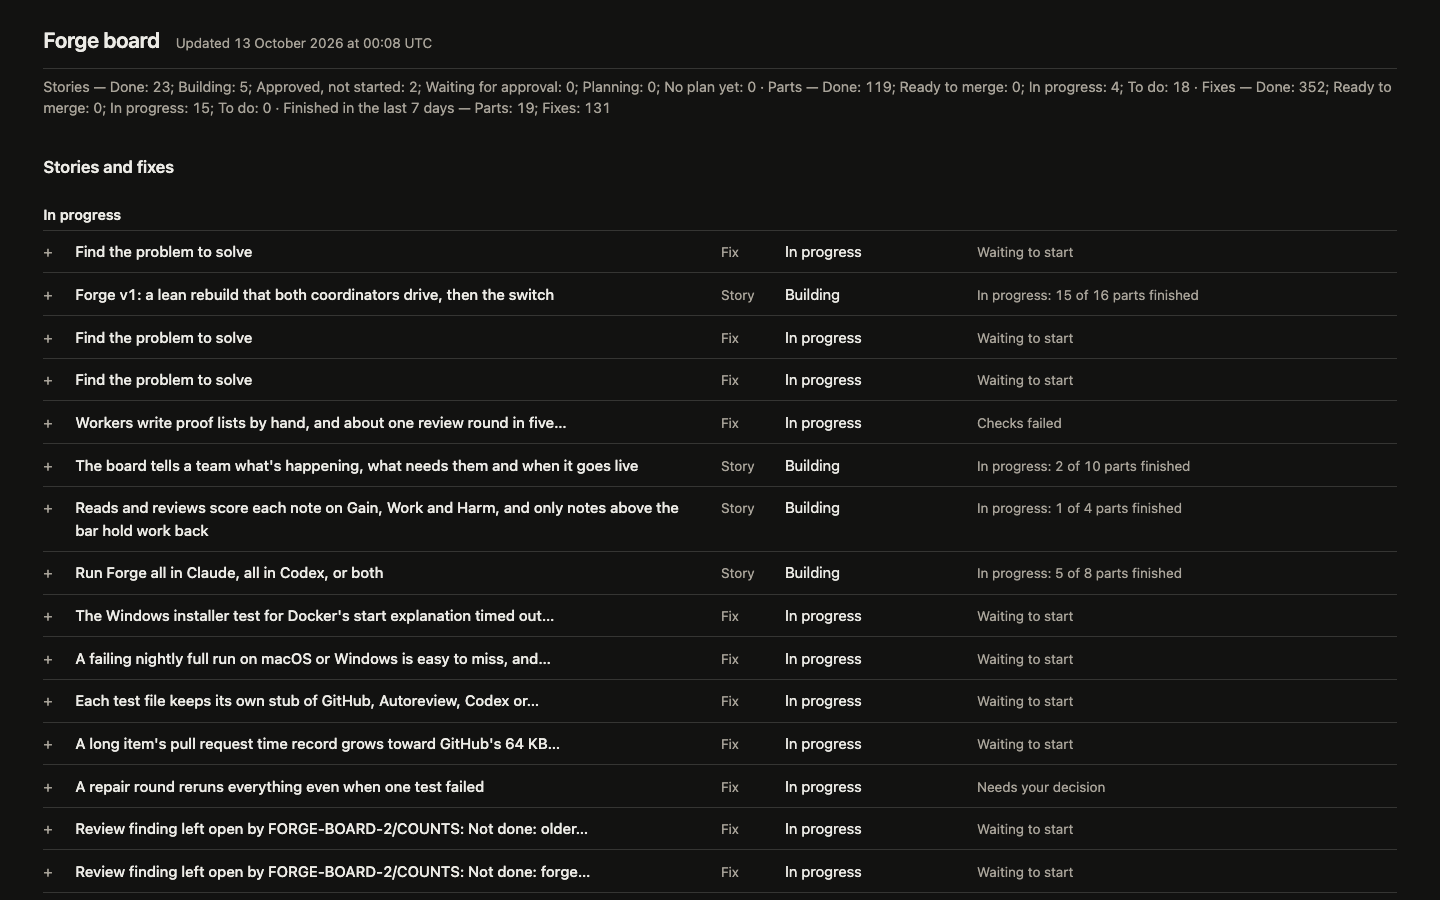
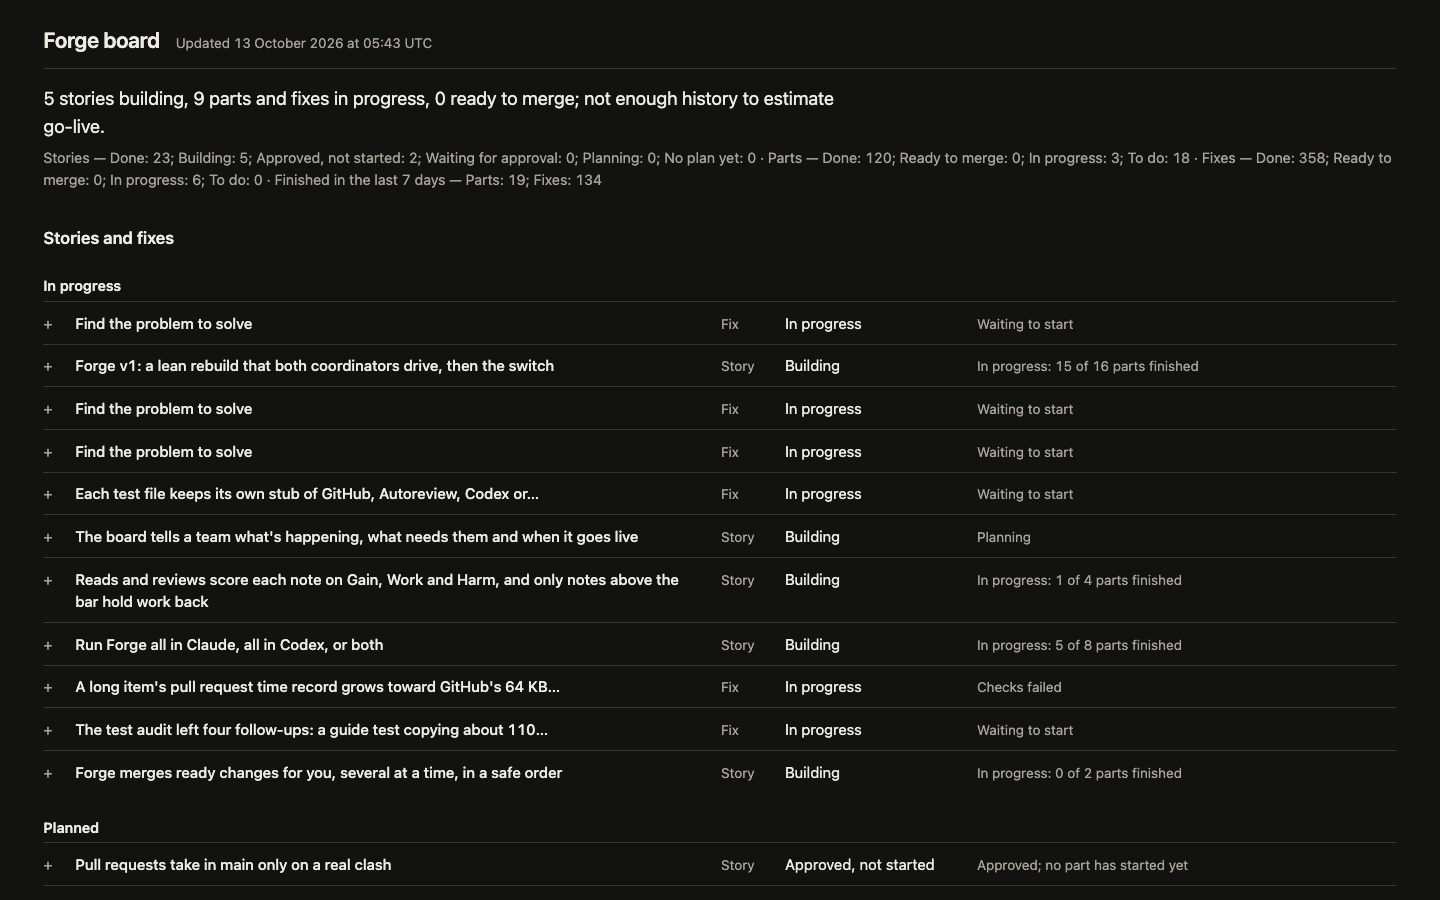
The board's map key fits on one line, and the page is proven on a client-sized board
The first review found the key wrapping across several lines, part rows not checked against
the JSON, no client-sized browser proof and no functional check. The key is now one short line
of small shapes and words that scrolls sideways in a narrow window. The test also compares
a part row's state and time split with the JSON. A generated client-sized repo (44 roadmap
stories, 120 parts, 10 open and 50 finished fixes, six weeks of merges) is the second browser
proof.

New client repos get the one-line key on their first forge board; existing client repos get it
when they move to this release and sync. Both histories are tested.

Proof list:
[…]

diff --git a/src/forge/board.html b/src/forge/board.html
@@ -34,7 +34,16 @@
   .sentence { font-size: 1.15rem; margin-top: 1rem; max-width: 70ch; }
   .totals { margin-top: .4rem; font-size: .9rem; }
   .note { margin-top: 1rem; }
-  .key { font-size: .85rem; max-width: 110ch; margin-bottom: .5rem; }
+  .key { font-size: .85rem; margin-bottom: .5rem; white-space: nowrap; overflow-x: auto; }
+  .key:focus-visible { outline: 2px solid var(--ink); outline-offset: 2px; }
+  .shape { display: inline-block; width: .75em; height: .75em; margin: 0 .3em 0 .5em; vertical-align: -.05em;
+           border: 1.5px solid var(--ink); background: var(--surface-2); }
+  .s-done { border-radius: 50%; }
+  .s-running { border-radius: 2px; }
+  .s-waiting { border: 0; background: var(--muted);
+               clip-path: polygon(25% 0, 75% 0, 100% 50%, 75% 100%, 25% 100%, 0 50%); }
+  .s-start { transform: rotate(45deg) scale(.8); }
+  .s-not { border-style: dashed; }
   .graph { border-top: 1px solid var(--rule); border-bottom: 1px solid var(--rule); padding: .5rem 0 1rem; }
   .detail { color: var(--muted); font-size: .85rem; }
   .row { border-top: 1px solid var(--rule); padding: .2rem 0; }
@@ -88,7 +97,7 @@
   </section>
   <section id="roadmap" aria-labelledby="roadmap-heading">
     <h2 id="roadmap-heading">Roadmap</h2>
-    <p class="key">$key</p>
+    <p class="key" tabindex="0" aria-label="Key to the map">$key</p>
     <div class="graph">$graph</div>
   </section>
   <section id="work" aria-labelledby="work-heading">

diff --git a/tests/board_fixture.py b/tests/board_fixture.py
@@ -1,0 +1,109 @@
+"""A client-sized board fixture for browser proof: 44 roadmap stories (30 planned with 4 parts each,
+14 with no plan yet), 10 open fixes, 50 finished fixes and six weeks of merges, written as git history
+in a new folder. Generated on demand, never checked in.
+
+Usage: python tests/board_fixture.py <empty folder> <forge version>
+Then run `forge board --out <page>` in <folder>/client.
+"""
+from __future__ import annotations
+
+import json
+import os
+import subprocess
+import sys
+from datetime import datetime, timedelta, timezone
+from pathlib import Path
+
+WHO = ["Shoppers", "Store managers", "Couriers", "Support staff", "Buyers", "Finance"]
+WHAT = ["save a basket", "track a parcel", "return an order", "split a payment", "see stock levels",
+        "print a packing slip", "reorder last week's shop", "share a wish list", "book a delivery slot",
+        "apply a voucher", "export the month's sales", "answer a refund request"]
+PARTS = ["Store the record", "Show it on the page", "Send a notice", "Add the report line"]
+
+
+def build(folder: Path, version: str) -> Path:
+    remote, client = folder / "origin.git", folder / "client"
+    now = datetime.now(timezone.utc).replace(microsecond=0)
+    env = {**os.environ, "GIT_AUTHOR_NAME": "Asha Rao", "GIT_AUTHOR_EMAIL": "asha@example.com",
+           "GIT_COMMITTER_NAME": "Asha Rao", "GIT_COMMITTER_EMAIL": "asha@example.com"}
+
+    def git(*args: str, at: datetime | None = None) -> None:
+        dated = {**env, "GIT_AUTHOR_DATE": at.isoformat(), "GIT_COMMITTER_DATE": at.isoformat()} if at else env
+        subprocess.run(["git", *args], cwd=client, env=dated, check=True, capture_output=True)
+
+    def write(rel: str, data: object) -> None:
+        path = client / rel
+        path.parent.mkdir(parents=True, exist_ok=True)
+        path.write_text(data if isinstance(data, str) else json.dumps(data, indent=2), encoding="utf-8")
+
+    def commit(message: str, at: datetime) -> None:
+        git("add", "-A")
+        git("commit", "-qm", message, at=at)
+
+    subprocess.run(["git", "init", "-q", "--bare", "-b", "main", str(remote)], check=True)
+    client.mkdir()
+    git("init", "-q", "-b", "main")
+    git("remote", "add", "origin", str(remote))
+    stories = [(f"SHOP-{n + 1}", f"{WHO[n % len(WHO)]} can {WHAT[n % len(WHAT)]}"
+                + (f", round {n // len(WHAT) + 1}" if n >= len(WHAT) else "")) for n in range(44)]
+    write("forge.toml", f'version = "{version}"\nrepo = "client"\n')
+    write("plans/roadmap.json", {"items": [{"key": key, "title": title} for key, title in stories]})
+    start = now - timedelta(weeks=6)
+    commit("Set up the shop", start)
+
+    def step(name: str, at: datetime) -> dict:
+        return {"step": name, "at": at.isoformat()}
+
+    # 30 planned stories: 20 done, 6 building, 2 approved and not started, 2 still planning.
+    for n, (key, title) in enumerate(stories[:30]):
+        begun = start + timedelta(hours=6 + n * 30)
+        rows = "\n".join(f"| T{p + 1} | {PARTS[p]} | {PARTS[p]} for {title.lower()} | 1 | `src/{key.lower()}-{p}.py` "
+                         f"| `tests/test_{key.lower()}_{p}.py` | {f'T{p}' if p else (f'SHOP-{n}/T4' if n and n % 5 == 0 else 'none')} | no |"
+                         for p in range(4))
+        write(f"plans/{key}.md", f"# {title}\n\n## What changes for you\n\n{title}.\n\n## Why\n\nAsked for.\n\n"
+              "## Done when\n\n1. It works.\n\n## Tasks\n\n| ID | Name | What it delivers | Covers | Scope | Tests | "
+              f"After | User-facing |\n|---|---|---|---|---|---|---|---|\n{rows}\n\nNew moving parts: none\n\n"
+              "## Risks\n\nRisks: none\n")
+        state = {"doc": f"plans/{key}.md", "title": title, "status": "planning", "steps": [step("start", begun)]}
+        if n < 28:
+            state.update(status="approved", approval={"at": (begun + timedelta(hours=2)).isoformat()})
+        write(f".factory/stories/{key}/story.json", state)
+        commit(f"Plan {title}", begun + timedelta(hours=2))
+        merged = 4 if n < 20 else (n % 3) + 1 if n < 26 else 0
+        for p in range(merged):
+            at = begun + timedelta(hours=8 + p * 20)
+            write(f".factory/stories/{key}/tasks/T{p + 1}.json", {
+                "branch": f"task/{key}-T{p + 1}", "status": "ready", "touches": 1,
+                "steps": [step("start", at - timedelta(hours=5)), step("review", at - timedelta(hours=1))]})
+            commit(f"{PARTS[p]} for {title.lower()}", min(at, now - timedelta(hours=1)))
+        if n < 20:
+            state.update(status="done", finished=(begun + timedelta(hours=80)).isoformat())
+            write(f".factory/stories/{key}/story.json", state)
+            commit(f"Finish {title}", min(begun + timedelta(hours=80), now - timedelta(hours=1)))
+    # 50 finished fixes across the six weeks.
+    for n in range(50):
+        at = start + timedelta(hours=10 + n * 20)
+        write(f".factory/fixes/fix-{n + 1}.json", {
+            "kind": "fix", "branch": f"fix/fix-{n + 1}", "status": "ready",
+            "why": f"{WHO[n % len(WHO)]} see the right total on page {n + 1}", "done_when": "It shows",
+            "steps": [step("start", at - timedelta(hours=3)), step("review", at - timedelta(hours=1))]})
+        commit(f"Fix page {n + 1}", min(at, now - timedelta(hours=1)))
+    git("push", "-q", "origin", "main")
+    # In-progress parts of the building stories and 10 open fixes, each on its own pushed branch.
+    branches = [(f"task/{key}-T{(n % 3) + 2}", f".factory/stories/{key}/tasks/T{(n % 3) + 2}.json", {})
+                for n, (key, _) in enumerate(stories[:30]) if 20 <= n < 26]
+    branches += [(f"fix/open-{n + 1}", f".factory/fixes/open-{n + 1}.json",
+                  {"kind": "fix", "why": f"The {WHAT[n].split()[-1]} page loads faster", "done_when": "It is fast"})
+                 for n in range(10)]
+    for n, (branch, rel, extra) in enumerate(branches):
+        git("switch", "-qc", branch, "main")
+        at = now - timedelta(hours=4 + n * 7)
+        write(rel, {"branch": branch, "status": "working", **extra, "steps": [step("start", at)]})
+        commit("Start the work", at)
+        git("push", "-q", "origin", branch)
+        git("switch", "-q", "main")
+    return client
+
+
+if __name__ == "__main__":
+    print(build(Path(sys.argv[1]), sys.argv[2]))

diff --git a/tests/test_board_runway.py b/tests/test_board_runway.py
@@ -87,16 +87,27 @@ def test_8_below_the_fold(repo, gh, tmp_path, claude_payload, monkeypatch, histo
     for row in data["items"]:
         group, state, times = by_title[row["title"]]
         assert state == row["state"].capitalize(), (row["title"], state, row["state"])
-        seconds = [row[f"{kind}_seconds"] for kind in ("working", "waiting", "unknown")]
-        assert times == ("No time recorded yet" if seconds == [None] * 3 else
-                         "Working {} · waiting {} · unknown {}".format(*map(_plain, seconds)))
-    assert any(child["title"] == "Save a basket" for child in from_json)
+        assert times == _times(row)
+    # A part row shows its own JSON state and time split too.
+    part = next(child for child in from_json if child["title"] == "Save a basket")
+    shown = re.search(r'<span class="title">Save a basket</span><span class="kind">Part</span>'
+                      r'<span class="state">(.*?)</span>.*?<p class="times">(.*?)</p>', page, re.S)
+    assert shown[1] == part["state"].capitalize()
+    assert shown[2] == _times(part)
 
     # One key line names the graph's shapes and the words part, fix and plan.
-    key = re.search(r'<p class="key">(.*?)</p>', page, re.S)[1]
-    assert all(word in key for word in ("circle", "square", "diamond", "A part", "A fix", "A plan"))
+    key = re.sub(r"<[^>]+>", "", re.search(r'<p class="key"[^>]*>(.*?)</p>', page, re.S)[1])
+    assert all(word in key for word in ("done", "running", "waiting", "can start", "not started",
+                                        "part:", "fix:", "plan:")), key
+    assert re.search(r"\.key \{[^}]*white-space: nowrap", page), "The key stays on one line"
     text = seen(out)
     assert "How the factory is doing:" in text
+
+
+def _times(row):
+    seconds = [row[f"{kind}_seconds"] for kind in ("working", "waiting", "unknown")]
+    return ("No time recorded yet" if seconds == [None] * 3 else
+            "Working {} · waiting {} · unknown {}".format(*map(_plain, seconds)))
 
 
 def _plain(seconds):

diff --git a/src/forge/board_visuals.py b/src/forge/board_visuals.py
@@ -8,10 +8,10 @@ from string import Template
 from textwrap import wrap
 
 ORDER = ("needs you", "blocked", "in progress", "planned", "no plan yet", "done")
-KEY = ("In the graph a circle is a finished part, a square a running one, a hexagon a waiting one, "
-       "a diamond one that can start now and a dashed square one not started. A part is one piece "
-       "of a story's plan. A fix is a small change on its own. A plan is a story's written design, "
-       "read and approved before its parts start.")
+# One line: the map's shapes, then the three words. Shapes are CSS, hidden from screen readers.
+KEY = (" ".join(f'<span class="shape s-{name}" aria-hidden="true"></span>{word}' for name, word in (
+    ("done", "done"), ("running", "running"), ("waiting", "waiting"), ("start", "can start"),
+    ("not", "not started"))) + " · part: a piece of a plan · fix: a small change · plan: a story's design")
 
 
 def _svg(label: str, description: str, height: int, drawing: str) -> str:
@@ -136,6 +136,6 @@ def page(view: dict, numbers: str, github: bool, now: datetime) -> str:
         note="" if github else ('<p class="note">GitHub couldn\'t be reached, so the list of finished '
                                 "work isn't available. This page shows the saved dates only.</p>"),
         graph=board_graph.dependencies(view["dependency_maps"]),
-        key=escape(KEY),
+        key=KEY,
         rows="".join(shown) or '<p class="empty">No story or fix yet. Start one with forge story new or forge fix start.</p>',
         numbers=escape(numbers))
